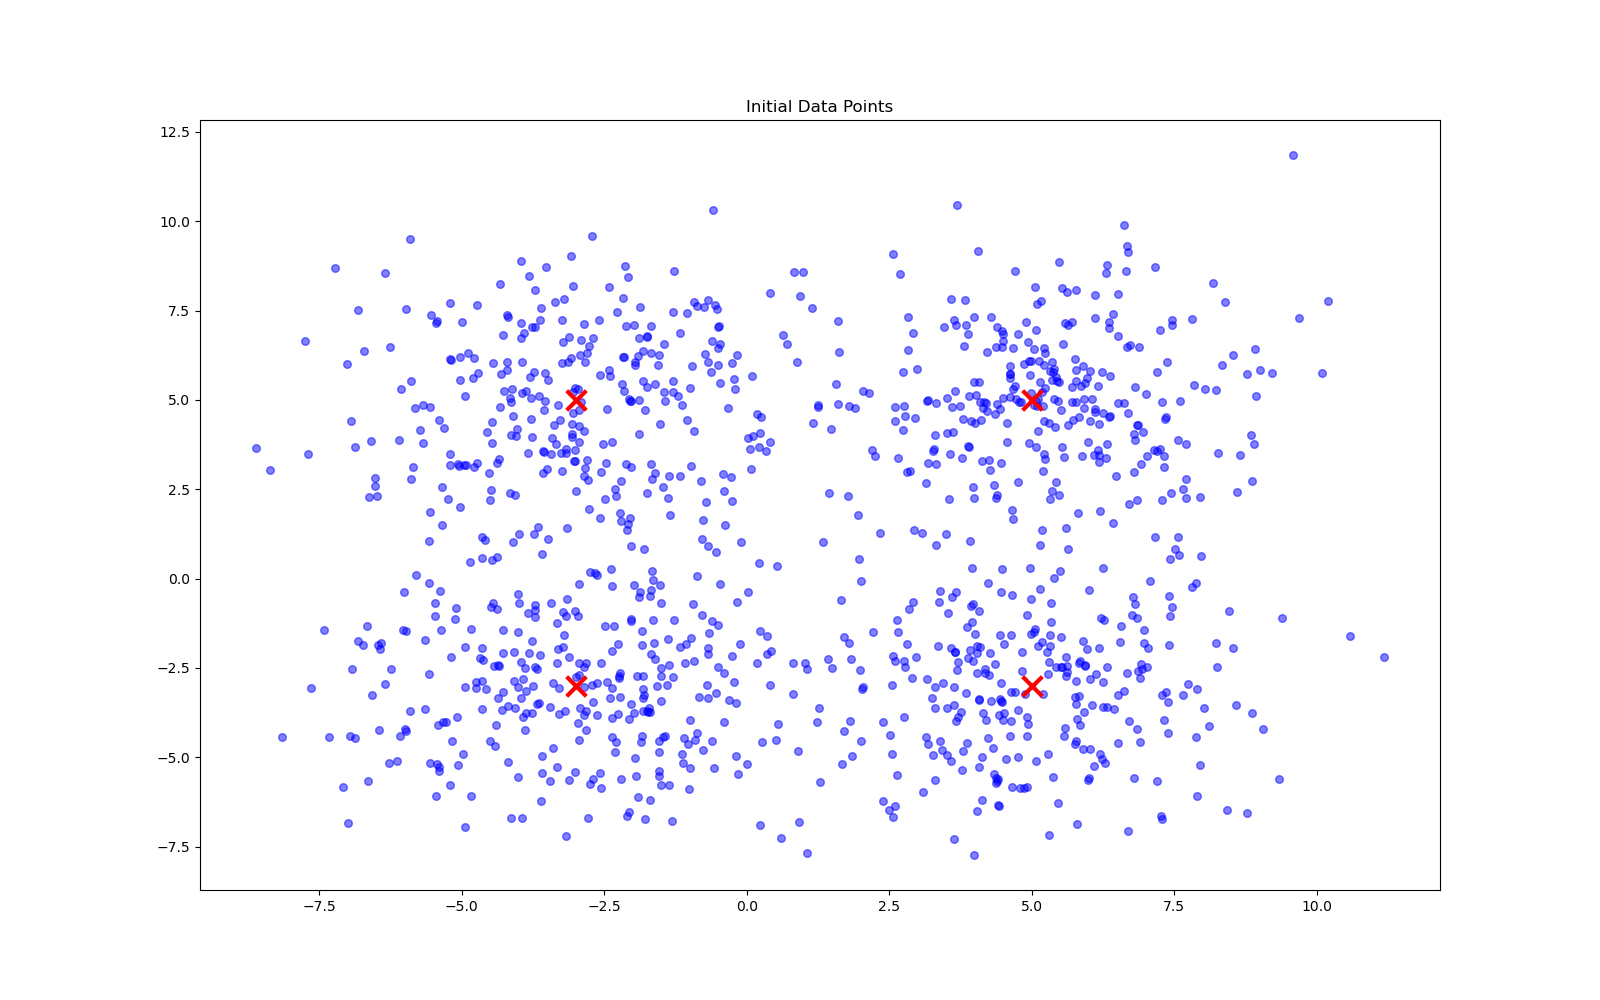
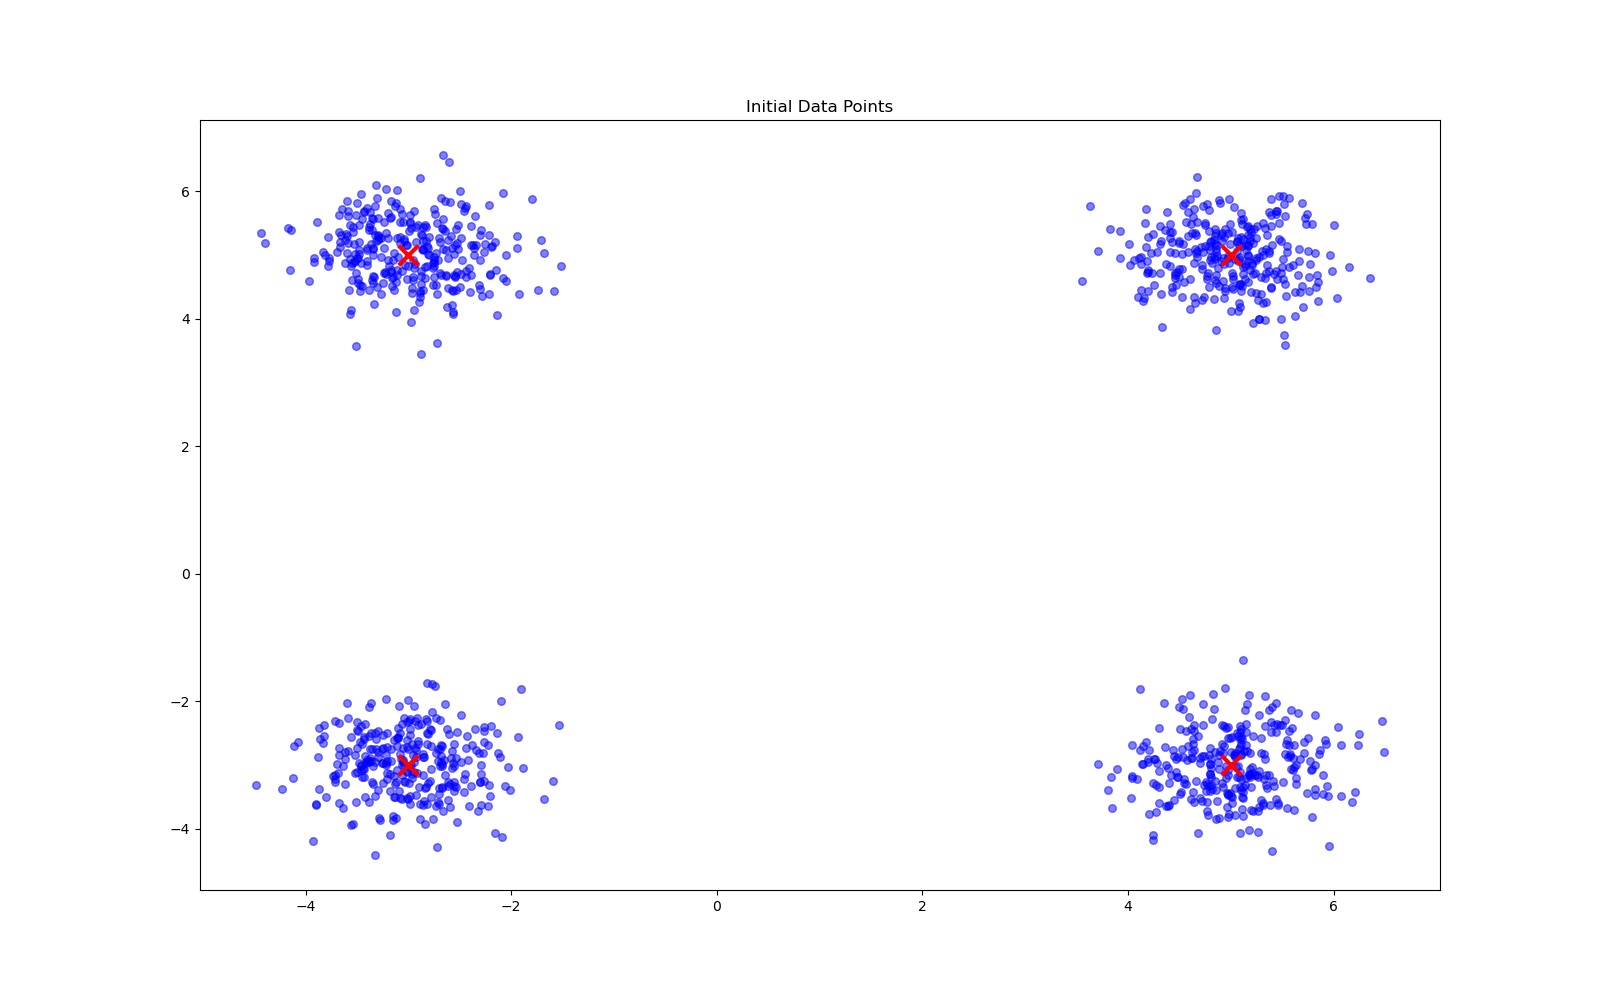
loll

diff --git a/K_means/K_mean.py b/K_means/K_mean.py
@@ -4,7 +4,7 @@ import time
 import numpy as np
 from math import sqrt
 
-def gen_points(centroids, points_per_cent = 300 ,std_dev = 2.0):
+def gen_points(centroids, points_per_cent = 300 ,std_dev = 0.5):
     points = []
     for cx, cy in centroids:
         for _ in range(points_per_cent):
